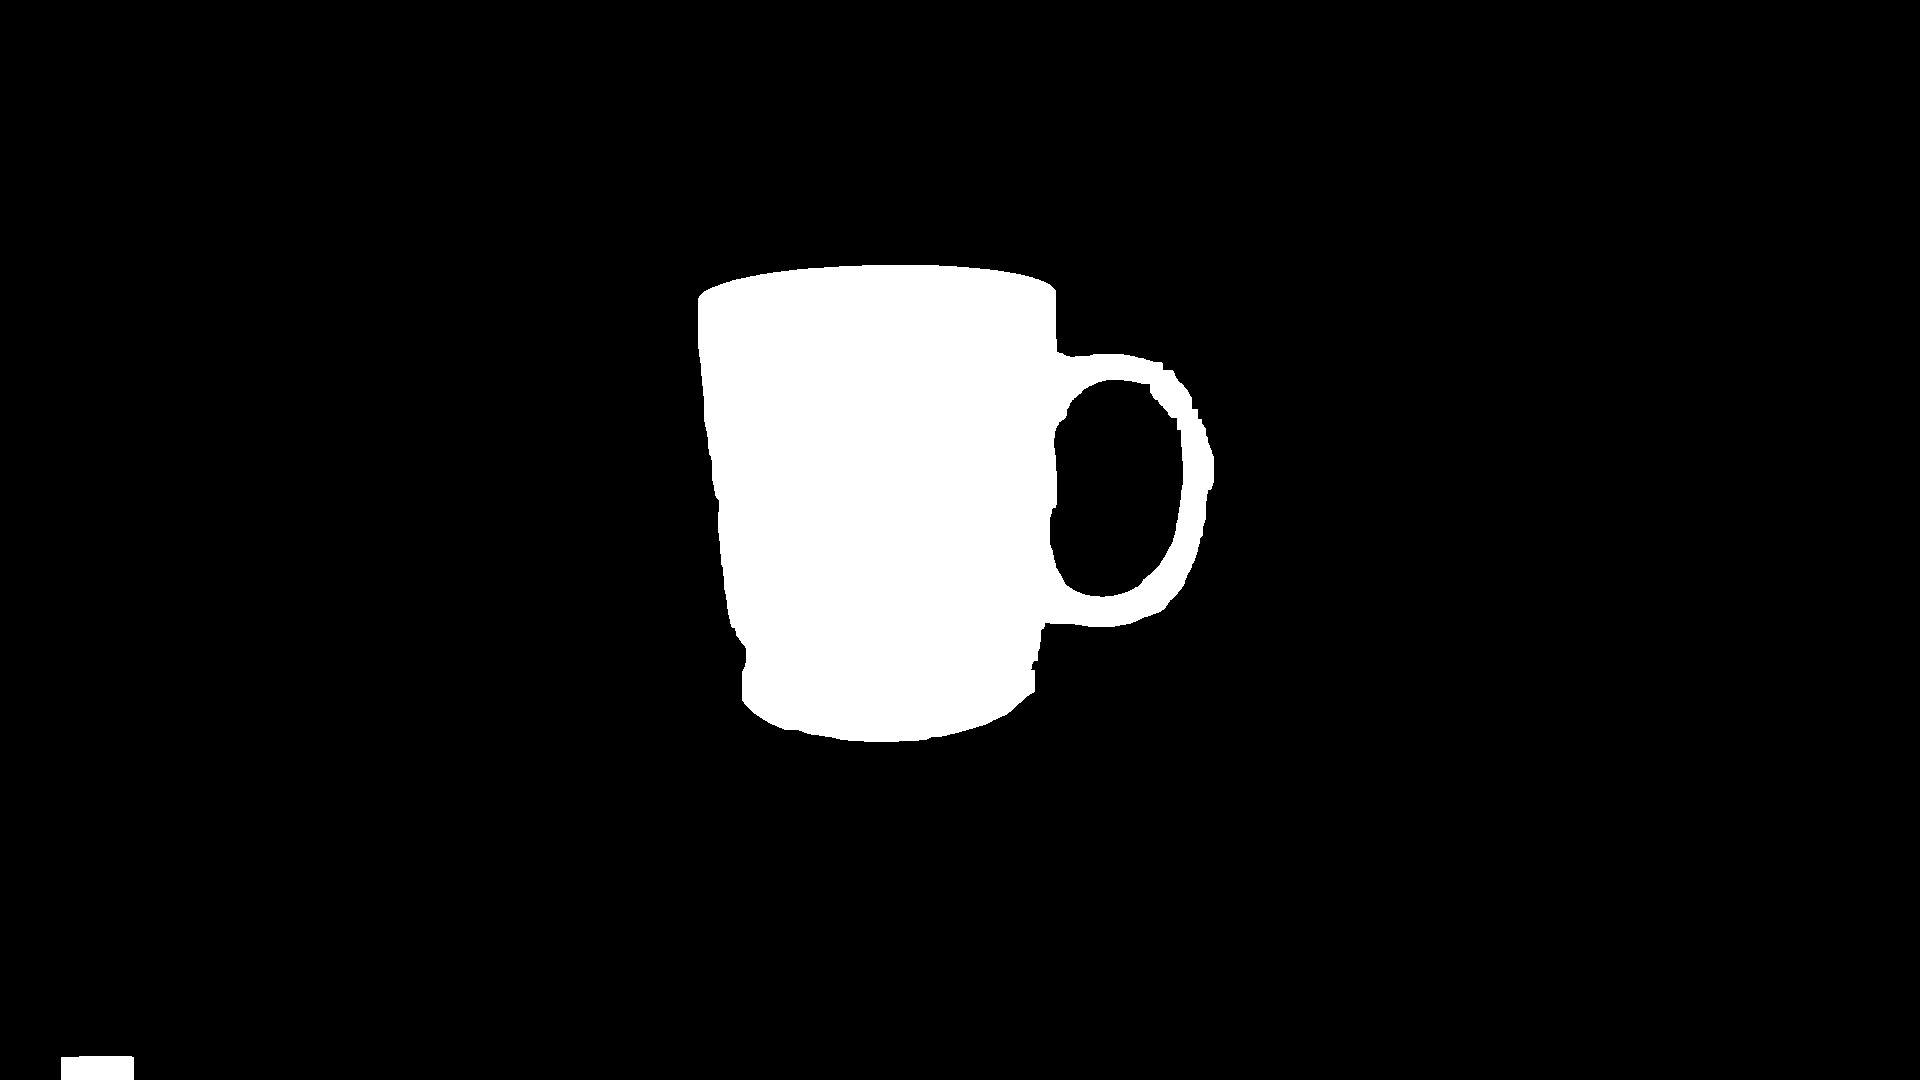
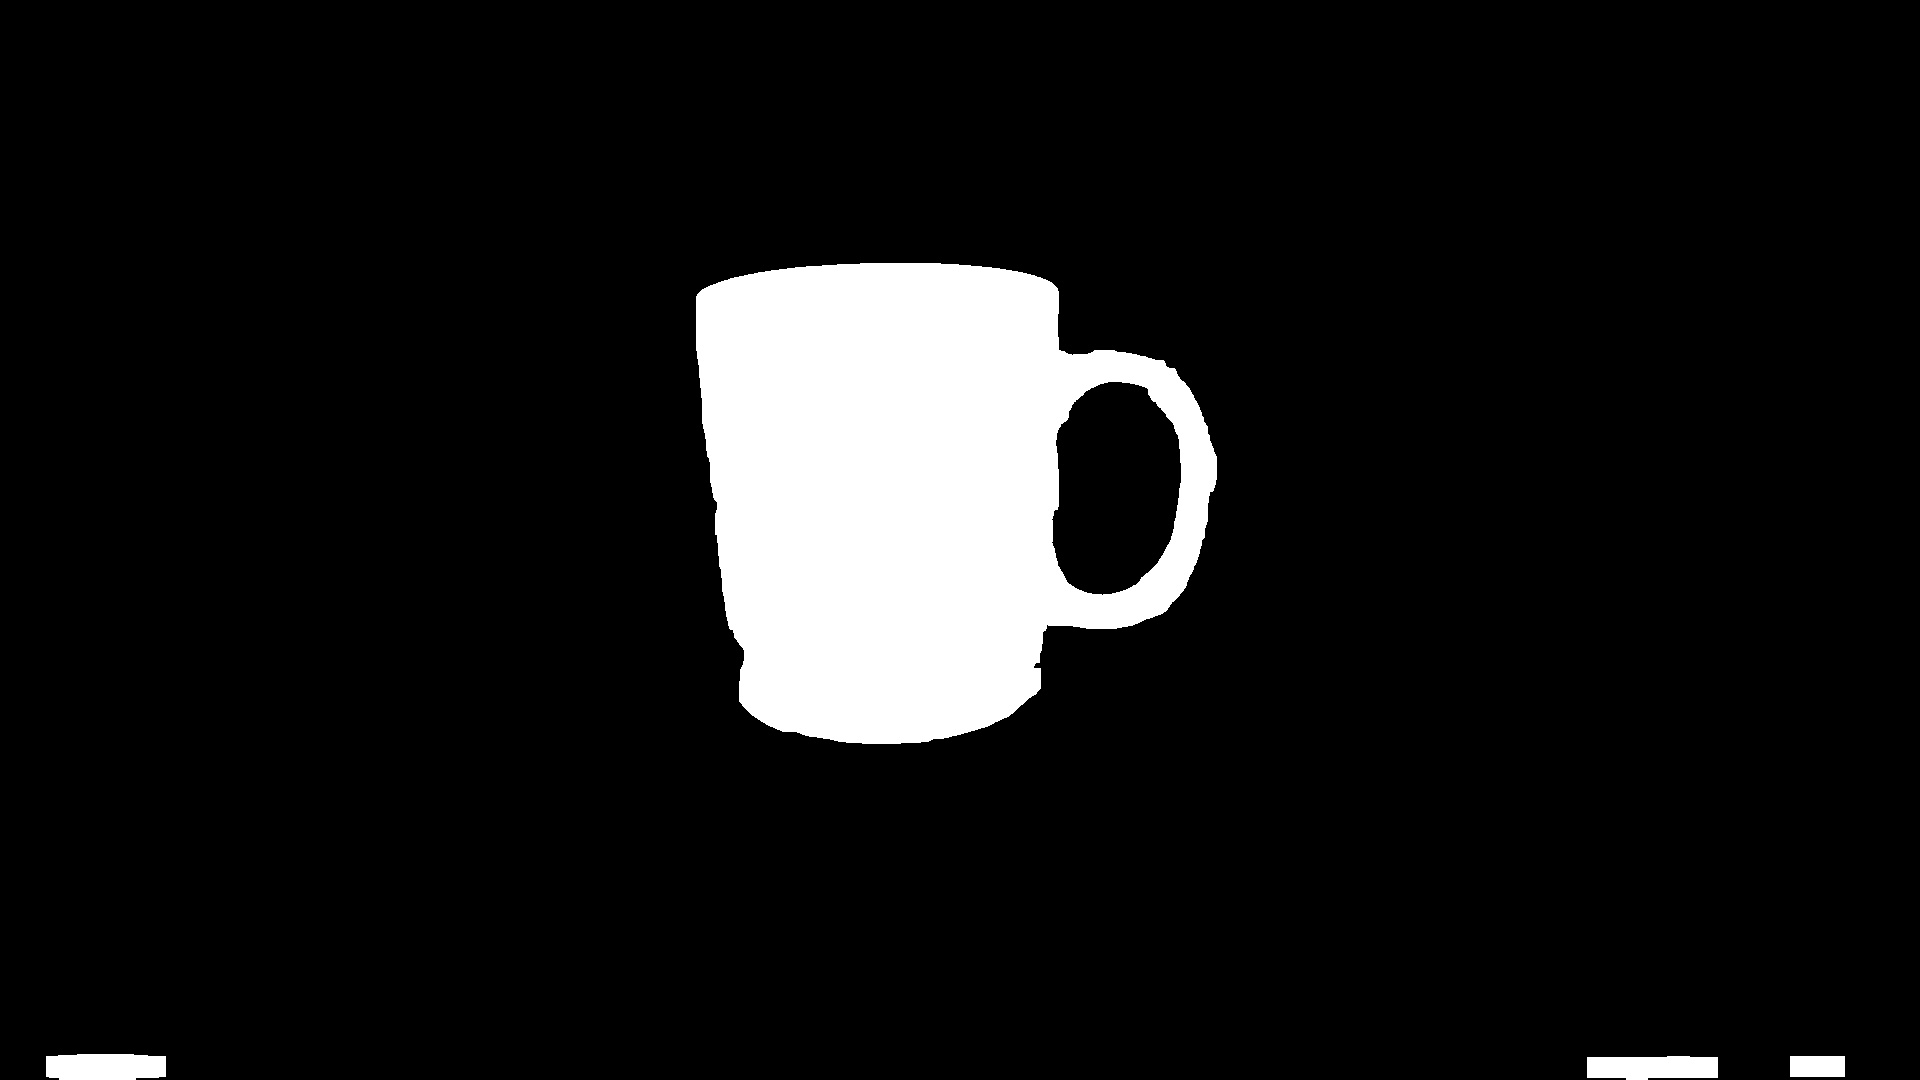
0118

diff --git a/img_PostProcessing.py b/img_PostProcessing.py
@@ -1,26 +1,87 @@
 import cv2
 import numpy as np
 import skimage.morphology as sm
+import matplotlib.pyplot as plt
+import matplotlib.image as mpimg
 from skimage import io,color
 
 savefile_path = "/home/user/matting/preprocessingfile/"
+# savefile_path = "/home/user/matting/preprocessingfile/com/"
 
-def opening(image_path):
-    img = cv2.imread(image_path)
-    # cv2.imshow('old',img)
-    cv2.imwrite(savefile_path+"old.jpg",img)
+def opening(image_path,com_path):
+    img = cv2.imread(image_path,0)
+    com_img = cv2.imread(com_path,0)
+    #cv2.imshow('origin',img)
+    
+    # laplacian = cv2.Laplacian(img,cv2.CV_64F)
+    # sobelx = cv2.Sobel(img,cv2.CV_64F,1,0,ksize=7)
+    # sobely = cv2.Sobel(img,cv2.CV_64F,0,1,ksize=7)
+
+    # abs_sobelx = np.absolute(sobelx)
+    # scaled_sobel = np.uint8(255*abs_sobelx/np.max(abs_sobelx))
+    # thresh_min = 10
+    # thresh_max = 170
+    # sxbinary = np.zeros_like(scaled_sobel)
+    # sxbinary[(scaled_sobel >= thresh_min) & (scaled_sobel <= thresh_max)] = 1
+    # plt.imshow(sxbinary, cmap='gray') 
+    # plt.show()  
+
+    # plt.subplot(2,2,1),plt.imshow(img,cmap='jet')
+    # plt.title('Original'), plt.xticks([]), plt.yticks([])
+    # plt.subplot(2,2,2),plt.imshow(laplacian,cmap='jet')
+    # plt.title('Laplacian'), plt.xticks([]), plt.yticks([])
+    # plt.subplot(2,2,3),plt.imshow(sobelx,cmap='jet')
+    # plt.title('Sobel X'), plt.xticks([]), plt.yticks([])
+    # plt.subplot(2,2,4),plt.imshow(sobely,cmap='jet')
+    # plt.title('Sobel Y'), plt.xticks([]), plt.yticks([])
+    # plt.show()
+    # plt.imshow(img,cmap='jet')
+    # plt.show()
+    # cv2.imwrite(savefile_path+"old1.png",img)
+
+    # kernel = np.ones((20,20),np.uint8)
+    # gradient = cv2.morphologyEx(img, cv2.MORPH_GRADIENT, kernel)
+    # cv2.imshow('erosion',img)
+
+    # gray_img = cv2.cvtColor(img,cv2.COLOR_BGR2GRAY)
+    # plt.imshow(gray_img)
+    # plt.show()
+    #cv2.imshow('gray',gray_img)
+
     
 
-    kernel_erode= np.ones((5,5),np.uint8)
-    kernel_dilation= np.ones((5,5),np.uint8)
+    kernel_erode= np.ones((5,5),np.uint8) #侵蝕
+    kernel_dilation= np.ones((5,5),np.uint8) #膨脹
 
-    img = cv2.erode(img,kernel_erode,iterations = 5)
-    img = cv2.dilate(img,kernel_dilation,iterations = 5)
-    cv2.imwrite(savefile_path+"dilate.jpg",img)
+    img = cv2.erode(img,kernel_erode,iterations =5)
+    img = cv2.dilate(img,kernel_dilation,iterations = 6)
+    cv2.imshow('kernel_dilation',img)
+    # plt.imshow(img)
+    # plt.show()
 
-    ret,binary=cv2.threshold(img,140,255,cv2.THRESH_BINARY)
+    
+    #plt.show()
+
+    #cv2.imshow("erode",img)
+    #cv2.imwrite(savefile_path+"dilate.jpg",img)
+
+    ret,binary=cv2.threshold(img,140,255,cv2.THRESH_BINARY) #二值化
+    
+    # contours, hierarchy = cv2.findContours(binary,cv2.RETR_TREE,cv2.CHAIN_APPROX_SIMPLE)  
+    # img = cv2.drawContours(img.copy(),contours,1,(0,0,255),3) 
     cv2.imshow('binary',binary)
-    cv2.imwrite(savefile_path+"binary.jpg",binary)
+
+    ret, thresh = cv2.threshold(binary, 127, 255, 0)
+    #contours,hierarchy = cv2.threshold(binary, 127, 255, 0)
+    contours, hierarchy = cv2.findContours(thresh, cv2.RETR_TREE, cv2.CHAIN_APPROX_SIMPLE)
+    #cv2.imshow("bitwise_not",hierarchy)
+    aa=cv2.drawContours(binary, contours, -1, (0,255,255), 3)
+    # lunkuo = cv2.bitwise_or(img,hierarchy) #设置80为低阈值，255为高阈值 #輪廓
+    cv2.imshow("bitwise_not",aa)
+    
+
+
+    #cv2.imwrite(savefile_path+"binary.jpg",binary)
 
     # cv2.imshow("img",img)
 
@@ -30,33 +91,17 @@ def opening(image_path):
     # cv2.imshow('erosion',erosion)
     # ret,binary=cv2.threshold(img,140,255,cv2.THRESH_BINARY)
     # cv2.imshow('binary',binary)
-    count = 30
    
-    
-
-    # kernel = np.ones((30,30), np.uint8)
-
-    # for i in range(count):
-    #     result = cv2.morphologyEx(binary, cv2.MORPH_OPEN, kernel)
-    #     i+=1
-    
-    # for i in range(20):
-    #     result = cv2.morphologyEx(binary, cv2.MORPH_CLOSE, kernel)
-    #     i+=1
-    
-
-    # cv2.imshow("img",img)
-    # cv2.imshow("result", result)
-
-    
-    
-    # cv2.imwrite(savefile_path+"new.jpg",result)
-
     cv2.waitKey(0)
     cv2.destroyAllWindows()
+
+# def Canny(image_path):
+
 
 
 
 if __name__ == '__main__':
     img_path = "/home/user/matting/img_output/pha/pha2.jpg"
-    opening(img_path)
+    com_path = "/home/user/matting/img_output/com/com2.png"
+    #opening(img_path)
+    opening(img_path,com_path)

diff --git a/realtime_shape_detection.py b/realtime_shape_detection.py
@@ -1,0 +1,100 @@
+import cv2
+import numpy as np
+from PIL import Image
+
+savefile_path = "/home/user/matting/preprocessingfile/"
+
+frameWidth = 640
+frameHeight = 480
+cap = cv2.VideoCapture(0)
+cap.set(3, frameWidth)
+cap.set(4, frameHeight)
+
+def empty(a):
+    pass
+
+cv2.namedWindow("Parameters")
+cv2.resizeWindow("Parameters",300,300)
+cv2.createTrackbar("Threshold1","Parameters",23,255,empty)
+cv2.createTrackbar("Threshold2","Parameters",20,255,empty)
+cv2.createTrackbar("Area","Parameters",5000,30000,empty)
+
+def stackImages(scale,imgArray):
+    rows = len(imgArray)
+    cols = len(imgArray[0])
+    rowsAvailable = isinstance(imgArray[0], list)
+    width = imgArray[0][0].shape[1]
+    height = imgArray[0][0].shape[0]
+    if rowsAvailable:
+        for x in range ( 0, rows):
+            for y in range(0, cols):
+                if imgArray[x][y].shape[:2] == imgArray[0][0].shape [:2]:
+                    imgArray[x][y] = cv2.resize(imgArray[x][y], (0, 0), None, scale, scale)
+                else:
+                    imgArray[x][y] = cv2.resize(imgArray[x][y], (imgArray[0][0].shape[1], imgArray[0][0].shape[0]), None, scale, scale)
+                if len(imgArray[x][y].shape) == 2: imgArray[x][y]= cv2.cvtColor( imgArray[x][y], cv2.COLOR_GRAY2BGR)
+        imageBlank = np.zeros((height, width, 3), np.uint8)
+        hor = [imageBlank]*rows
+        hor_con = [imageBlank]*rows
+        for x in range(0, rows):
+            hor[x] = np.hstack(imgArray[x])
+        ver = np.vstack(hor)
+    else:
+        for x in range(0, rows):
+            if imgArray[x].shape[:2] == imgArray[0].shape[:2]:
+                imgArray[x] = cv2.resize(imgArray[x], (0, 0), None, scale, scale)
+            else:
+                imgArray[x] = cv2.resize(imgArray[x], (imgArray[0].shape[1], imgArray[0].shape[0]), None,scale, scale)
+            if len(imgArray[x].shape) == 2: imgArray[x] = cv2.cvtColor(imgArray[x], cv2.COLOR_GRAY2BGR)
+        hor= np.hstack(imgArray)
+        ver = hor
+    return ver
+
+def getContours(img,imgContour):
+    contours, hierarchy = cv2.findContours(img, cv2.RETR_EXTERNAL, cv2.CHAIN_APPROX_NONE)
+    #print(contours)
+    for cnt in contours:
+        area = cv2.contourArea(cnt)
+        areaMin = cv2.getTrackbarPos("Area", "Parameters")
+        if area > areaMin:
+            cv2.drawContours(imgContour, cnt, -1, (255, 0, 255), 5)
+            peri = cv2.arcLength(cnt, True)
+            approx = cv2.approxPolyDP(cnt, 0.02 * peri, True)
+            print(len(approx))
+            x , y , w, h = cv2.boundingRect(approx)
+            cv2.rectangle(imgContour, (x , y ), (x + w , y + h ), (0, 255, 0), 5)
+
+            cv2.putText(imgContour, "Points: " + str(len(approx)), (x + w + 20, y + 20), cv2.FONT_HERSHEY_COMPLEX, .7,
+                        (0, 255, 0), 2)
+            cv2.putText(imgContour, "Area: " + str(int(area)), (x + w + 20, y + 45), cv2.FONT_HERSHEY_COMPLEX, 0.7,
+                        (0, 255, 0), 2)
+
+while True:
+    img_path = "/home/user/matting/img_output/pha/pha2.jpg"
+    img = cv2.imread(img_path)
+
+    #success, img = cap.read()
+    imgContour = img.copy()
+
+
+    imgBlur = cv2.GaussianBlur(img, (11, 11), 20)
+    imgGray = cv2.cvtColor(imgBlur, cv2.COLOR_BGR2GRAY)
+
+    threshold1 = cv2.getTrackbarPos("Threshold1", "Parameters")
+    threshold2 = cv2.getTrackbarPos("Threshold2", "Parameters")
+    ret,binary=cv2.threshold(imgGray,140,255,cv2.THRESH_BINARY) #二值化
+    
+    imgCanny = cv2.Canny(binary,threshold1,threshold2)
+    
+
+    kernel = np.ones((5, 5),np.uint8)
+    imgDil = cv2.dilate(imgCanny, kernel, iterations=1)
+
+    getContours(imgDil,imgContour)
+    # imgStack = stackImages(0.8,([img,imgCanny],[imgDil,imgContour]))
+    imgStack = stackImages(0.8,([imgContour,binary],[imgDil,imgGray]))
+    cv2.imwrite(savefile_path+"imgStack.jpg",imgStack)
+    cv2.imshow("Result", imgStack)
+
+    if cv2.waitKey(1) & 0xFF == ord('q'):
+        break
